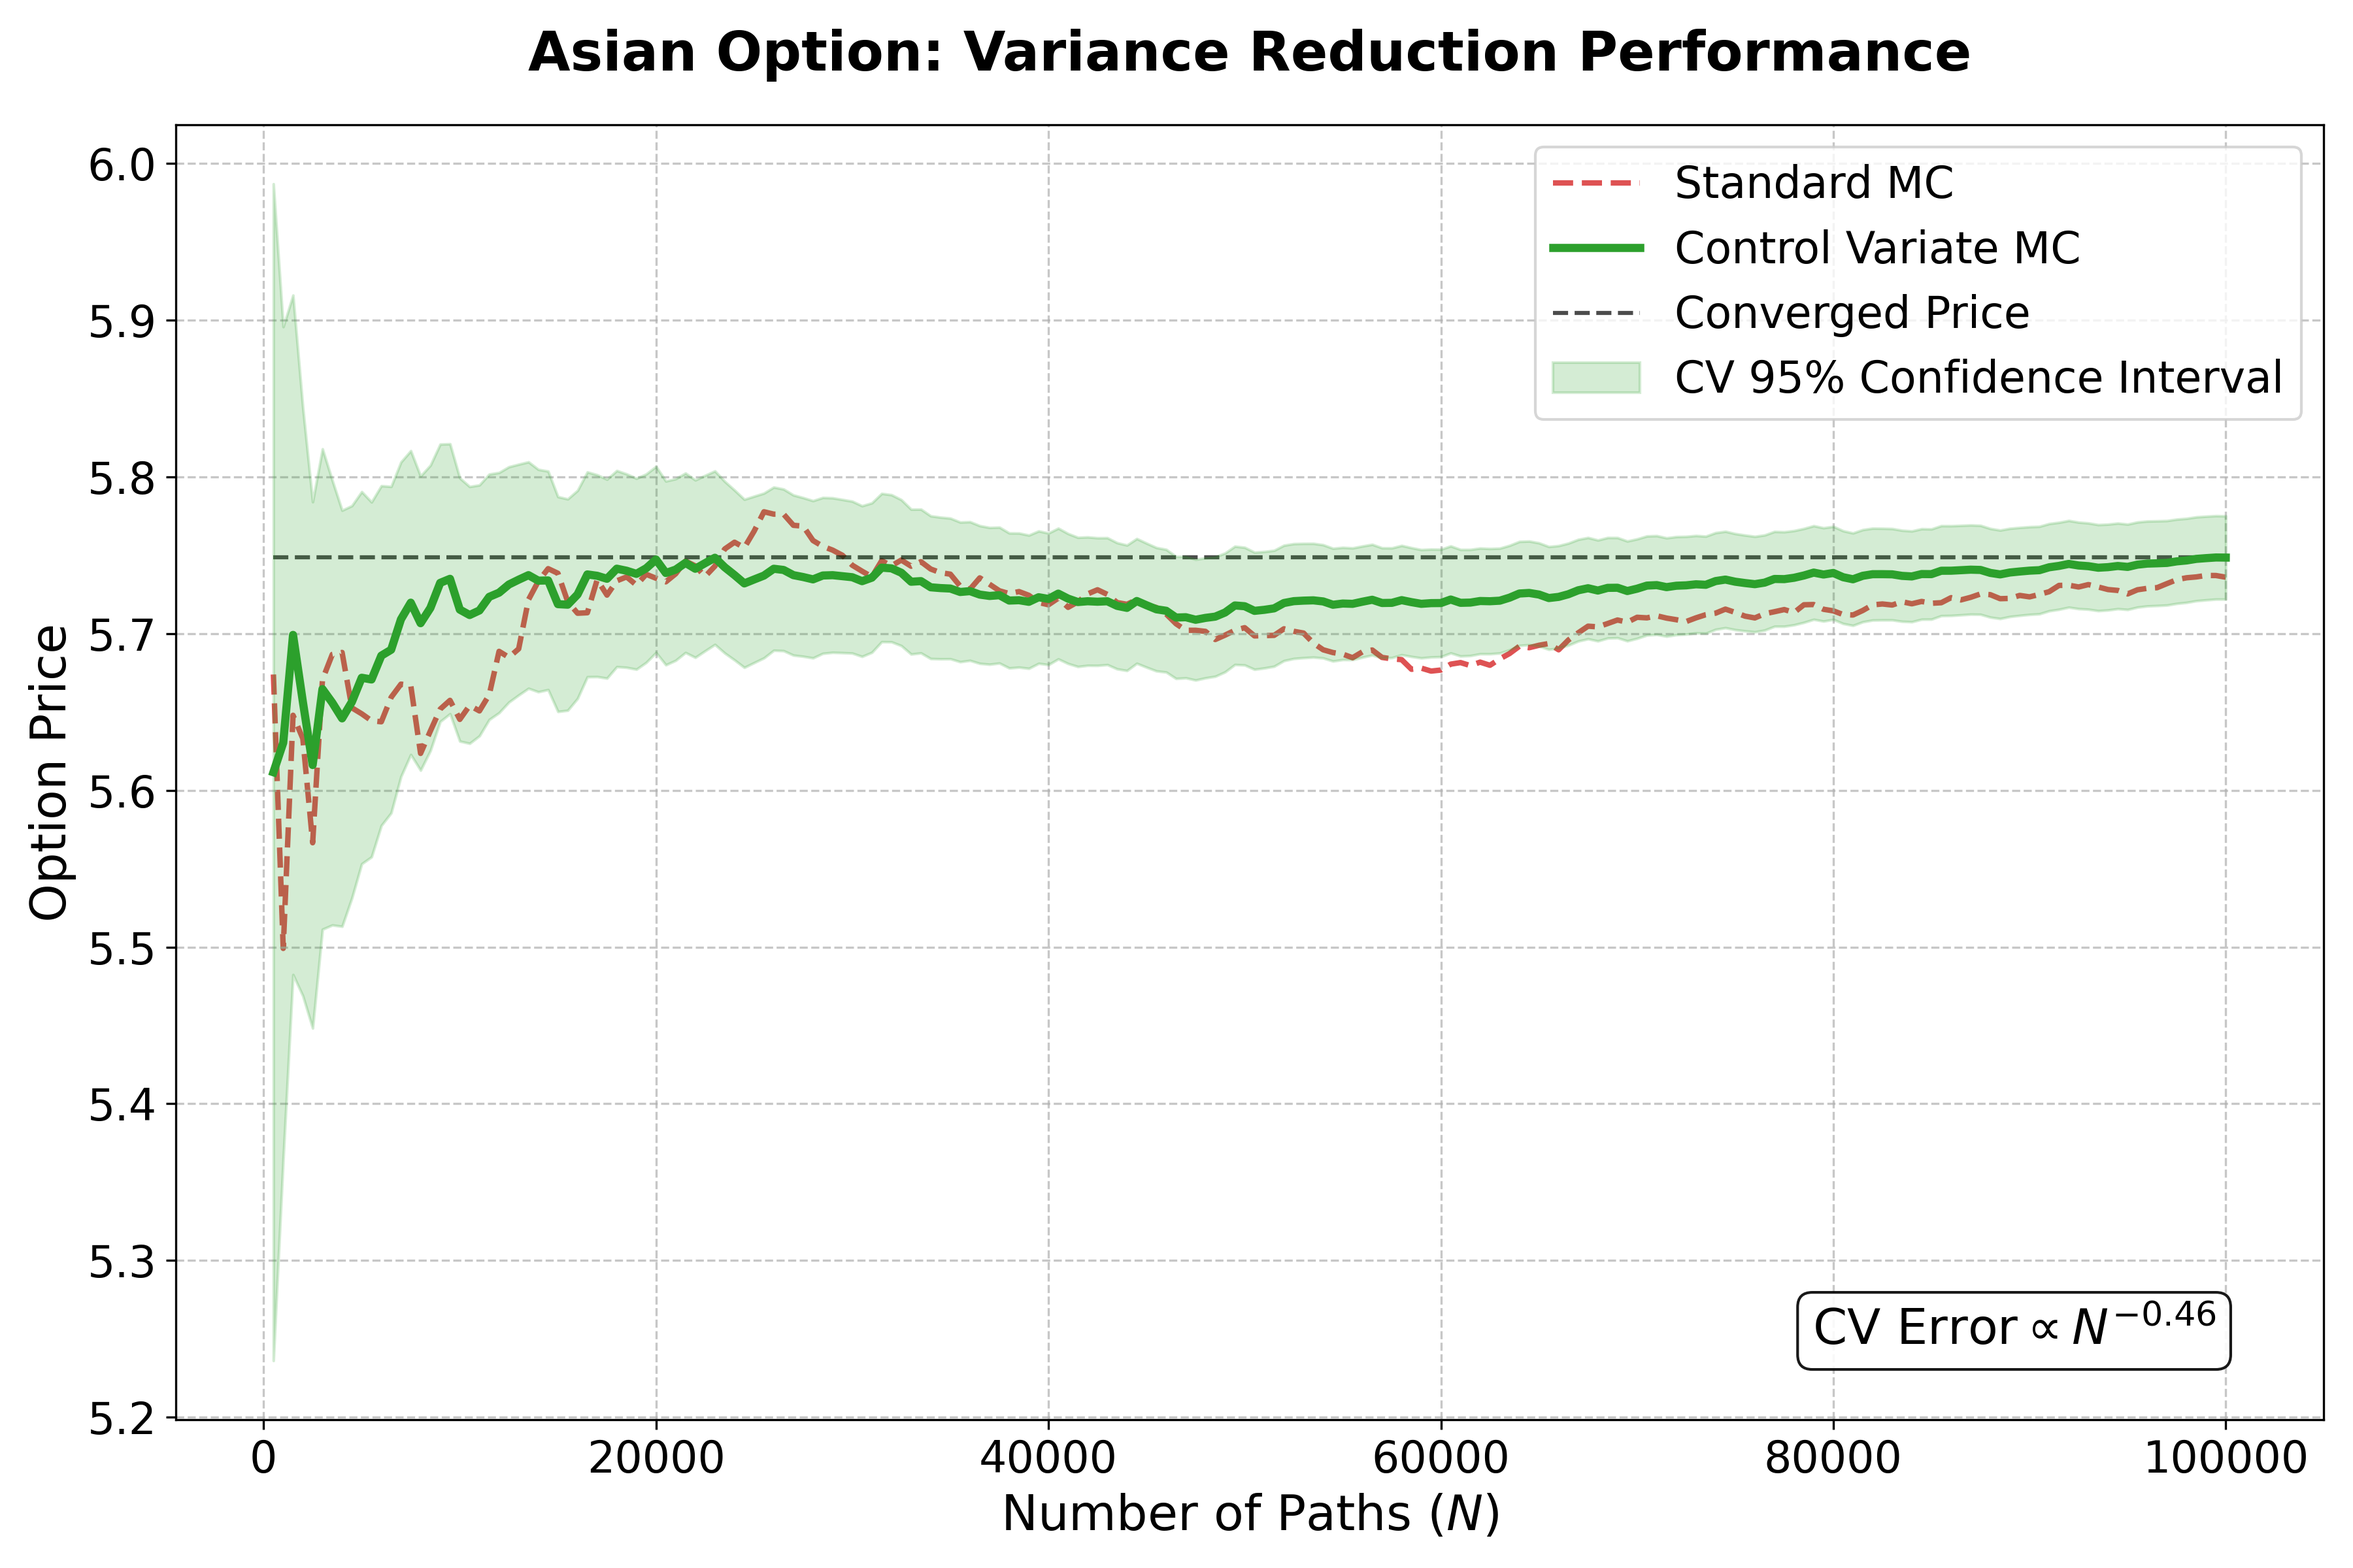
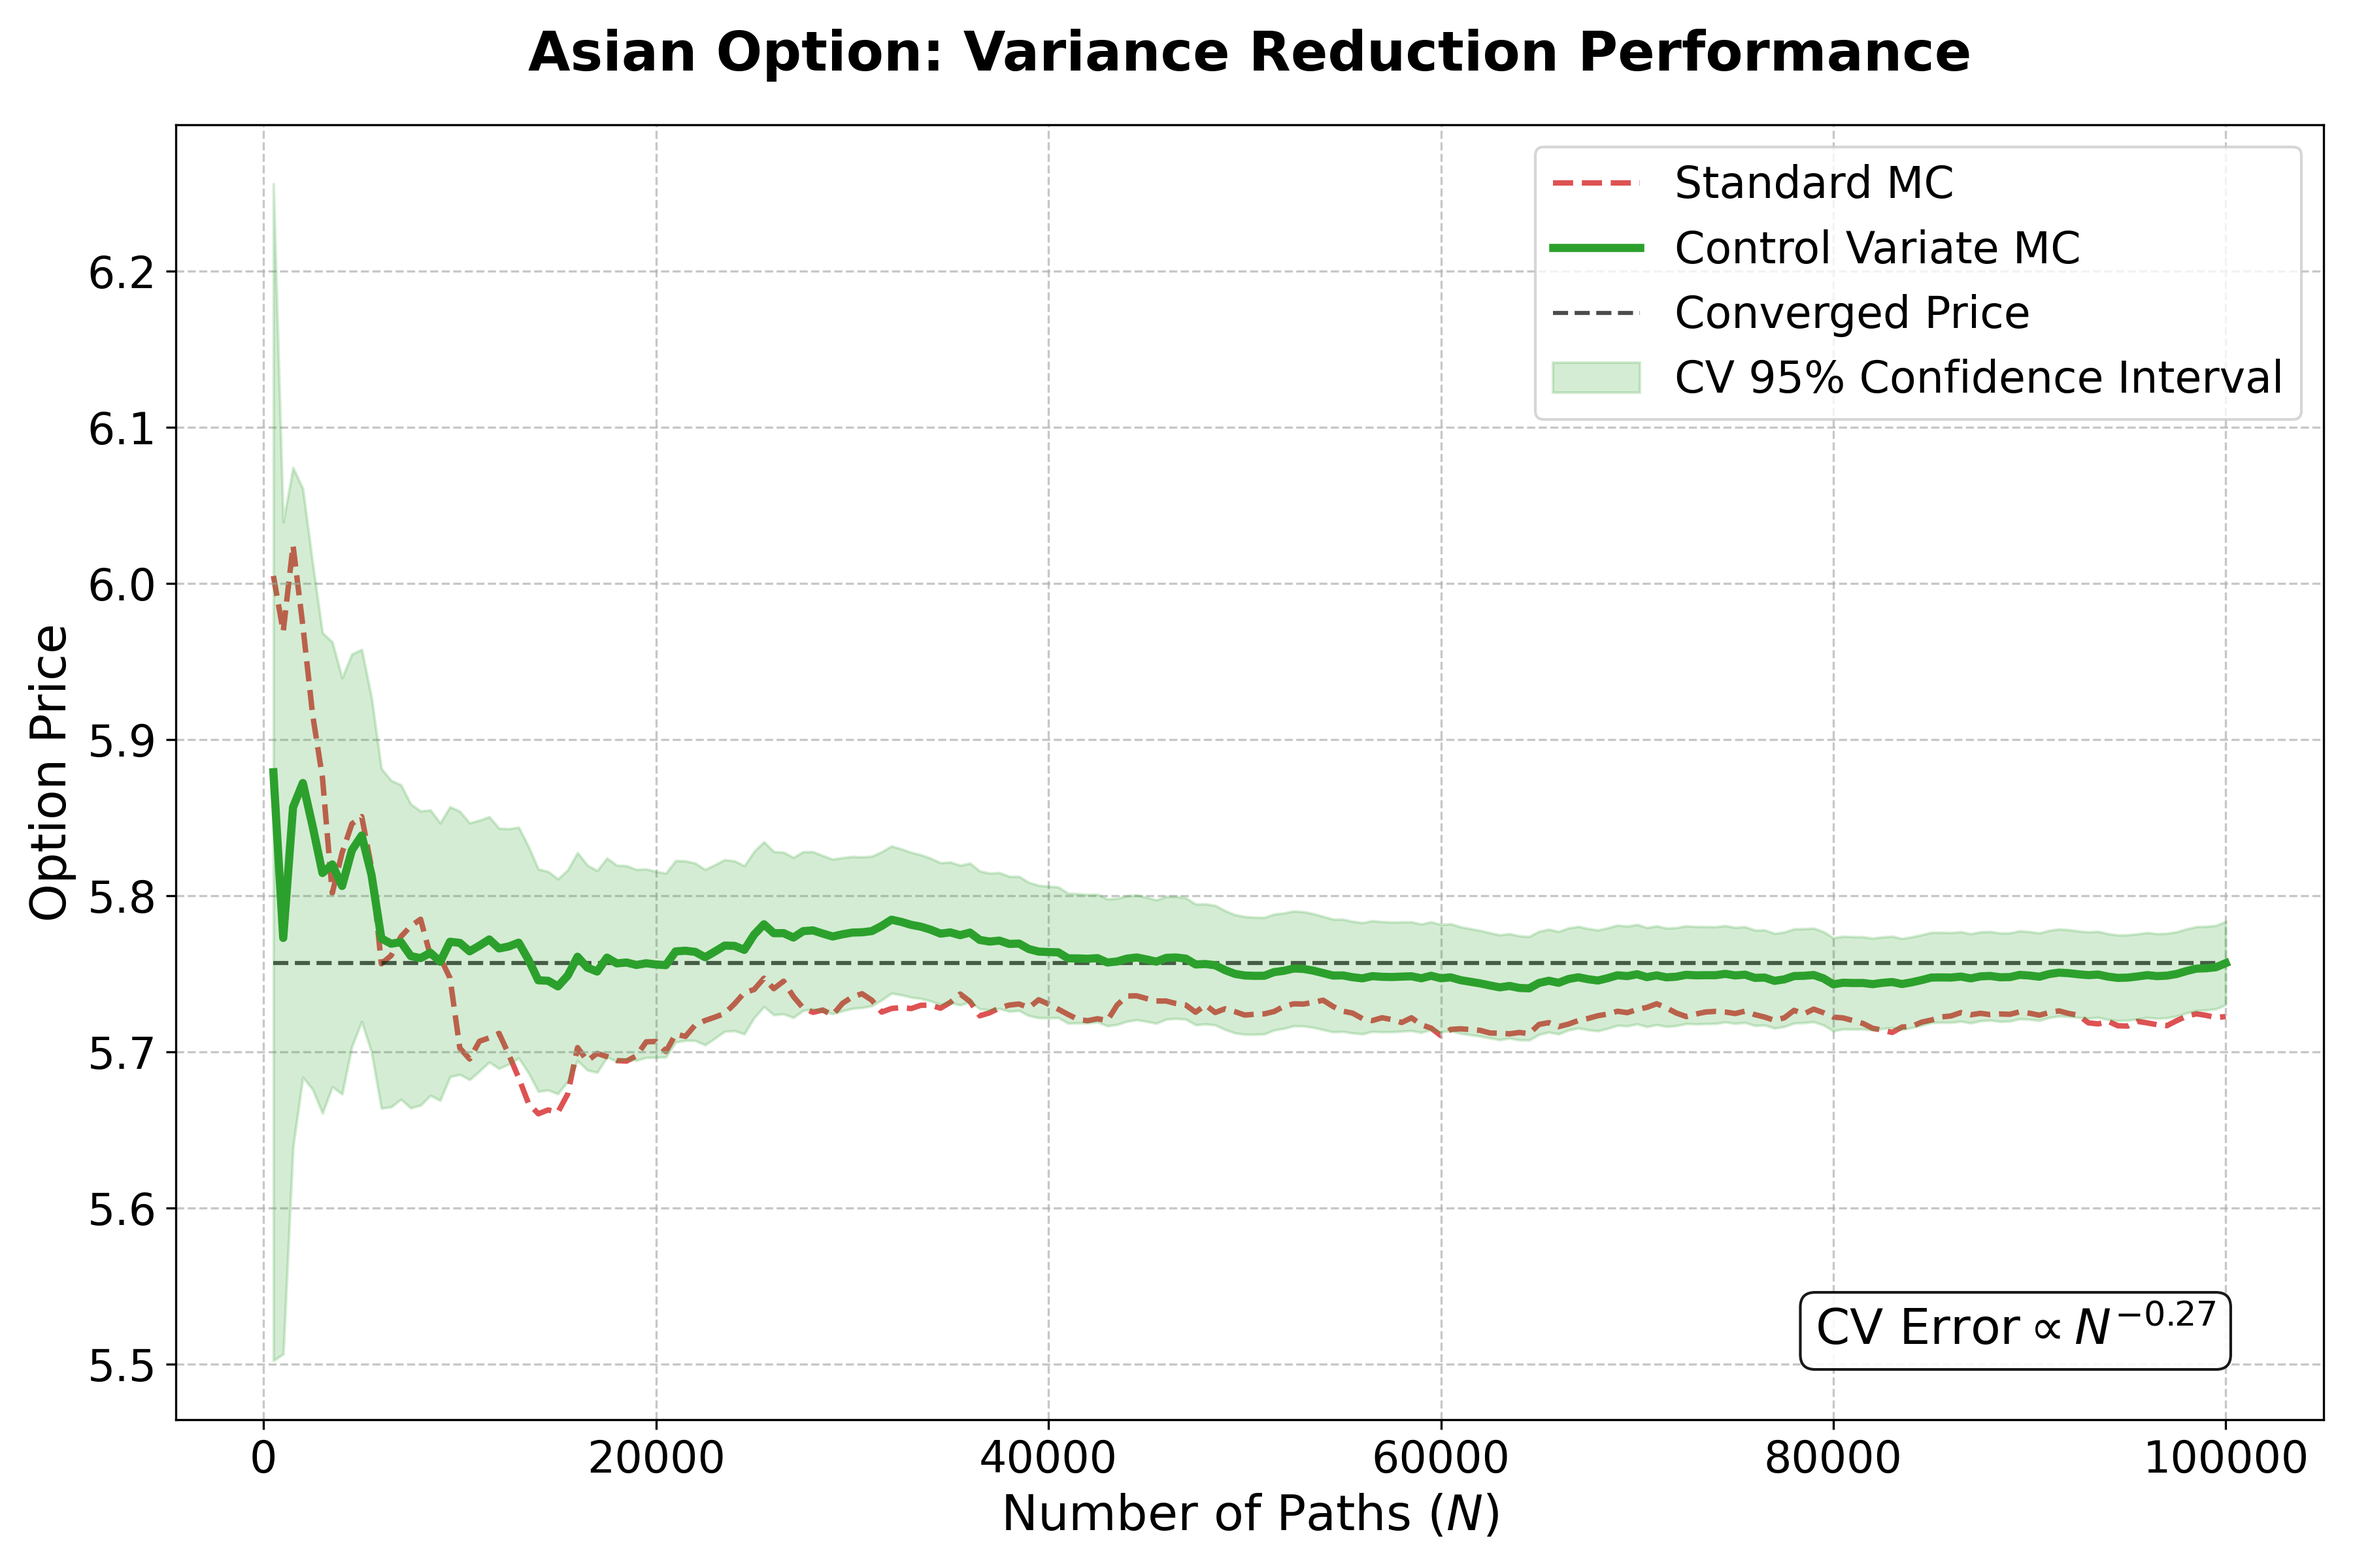
added heston volatility

diff --git a/main.py b/main.py
@@ -6,16 +6,13 @@ from models.monte_carlo import MonteCarloEngine
 from models.black_scholes import black_scholes
 from options.european import EuropeanOption
 from options.asian import AsianOption
-from models.variance_reduction import apply_control_variate
-from utils.statistics import summary_stats
 
 np.random.seed(42)
 
-def convergence_study_european(engine, option, paths=None, n_max=20000, step=500):
-    if paths is None:
-        paths = engine.generate_paths()
-    
+
+def convergence_study_european(engine, option, paths):
     n_total = paths.shape[0]
+    step = 500
     sizes = np.arange(step, n_total + 1, step, dtype=int)
 
     S_T = paths[:, -1]
@@ -28,11 +25,9 @@ def convergence_study_european(engine, option, paths=None, n_max=20000, step=500
     return sizes, estimates
 
 
-def convergence_study_asian(engine, option, paths=None, n_max=20000, step=500):
-    if paths is None:
-        paths = engine.generate_paths()
-    
+def convergence_study_asian(engine, option, paths):
     n_total = paths.shape[0]
+    step = 500
     sizes = np.arange(step, n_total + 1, step, dtype=int)
 
     payoff = option.payoff(paths)
@@ -44,6 +39,10 @@ def convergence_study_asian(engine, option, paths=None, n_max=20000, step=500):
     return sizes, estimates
 
 
+def run_engine(engine):
+    return engine.generate_paths()
+
+
 def main():
     os.makedirs("figures", exist_ok=True)
 
@@ -51,122 +50,94 @@ def main():
     K = 100
     T = 1.0
     r = 0.05
-    sigma = 0.2
 
     n_paths = 100000
     n_steps = 100
 
-    engine = MonteCarloEngine(S0, T, r, sigma, n_paths, n_steps)
+    gbm_engine = MonteCarloEngine(
+        S0, T, r,
+        sigma=0.2,
+        n_paths=n_paths,
+        n_steps=n_steps
+    )
+
+    heston_engine = MonteCarloEngine(
+        S0, T, r,
+        sigma=0.2,
+        n_paths=n_paths,
+        n_steps=n_steps,
+        model="heston",
+        model_params={
+            "v0": 0.04,
+            "kappa": 2.0,
+            "theta": 0.04,
+            "xi": 0.5,
+            "rho": -0.7
+        }
+    )
 
     european = EuropeanOption(K, "call")
     asian = AsianOption(K, "call")
 
-    paths = engine.generate_paths()
-    S_T = paths[:, -1]
+    gbm_paths = run_engine(gbm_engine)
+    heston_paths = run_engine(heston_engine)
 
-    bs_price = black_scholes(S0, K, T, r, sigma, "call")
+    gbm_S_T = gbm_paths[:, -1]
+    heston_S_T = heston_paths[:, -1]
 
-    euro_payoff = european.payoff(S_T)
-    euro_discounted = np.exp(-r * T) * euro_payoff
+    bs_price = black_scholes(S0, K, T, r, gbm_engine.sigma, "call")
 
-    asian_payoff = asian.payoff(paths)
-    asian_discounted = np.exp(-r * T) * asian_payoff
+    gbm_euro = np.exp(-r * T) * european.payoff(gbm_S_T)
+    heston_euro = np.exp(-r * T) * european.payoff(heston_S_T)
 
-    euro_price = np.mean(euro_discounted)
-    asian_price = np.mean(asian_discounted)
+    gbm_asian = np.exp(-r * T) * asian.payoff(gbm_paths)
+    heston_asian = np.exp(-r * T) * asian.payoff(heston_paths)
 
-    asian_cv_discounted = apply_control_variate(
-        payoff=asian_discounted,
-        control=euro_discounted,
-        control_exact=bs_price
-    )
+    gbm_euro_price = np.mean(gbm_euro)
+    heston_euro_price = np.mean(heston_euro)
 
-    euro_stats = summary_stats(euro_discounted, benchmark=bs_price)
-    asian_stats = summary_stats(asian_discounted)
-    asian_cv_stats = summary_stats(asian_cv_discounted)
+    gbm_asian_price = np.mean(gbm_asian)
+    heston_asian_price = np.mean(heston_asian)
 
-    print("\n--- European Option ---")
-    print("MC Price:", euro_price)
+    print("\n--- MODEL COMPARISON ---")
+    print("GBM European:", gbm_euro_price)
+    print("Heston European:", heston_euro_price)
+    print("GBM Asian:", gbm_asian_price)
+    print("Heston Asian:", heston_asian_price)
     print("Black-Scholes:", bs_price)
-    print("Stats:", euro_stats)
 
-    print("\n--- Asian Option ---")
-    print("MC Price:", asian_price)
-    print("Stats:", asian_stats)
+    sizes, gbm_conv = convergence_study_european(gbm_engine, european, gbm_paths)
+    _, heston_conv = convergence_study_european(heston_engine, european, heston_paths)
 
-    print("\n--- Asian (Control Variate) ---")
-    print("MC Price:", np.mean(asian_cv_discounted))
-    print("Stats:", asian_cv_stats)
-
-    # European Plot
-    sizes_e, euro_conv = convergence_study_european(engine, european, paths=paths, n_max=n_paths)
-    bs_line = np.full_like(sizes_e, bs_price, dtype=float)
-    
-    sigma_euro = np.std(euro_discounted)
-    stderr_e = sigma_euro / np.sqrt(sizes_e)
-    upper_e = euro_conv + 1.96 * stderr_e
-    lower_e = euro_conv - 1.96 * stderr_e
+    bs_line = np.full_like(sizes, bs_price, dtype=float)
 
     plt.figure(figsize=(12, 8))
-    plt.plot(sizes_e, euro_conv, label="MC Estimate", color='tab:blue', linewidth=2.5, zorder=3)
-    plt.plot(sizes_e, bs_line, "--", label="Black-Scholes", color='black', alpha=0.8, zorder=2)
-    plt.fill_between(sizes_e, lower_e, upper_e, color='tab:blue', alpha=0.2, label="95% Confidence Interval", zorder=1)
-    
-    errors_e = np.abs(euro_conv - bs_price)
-    valid_e = (errors_e > 1e-9) & (sizes_e > 1000)
-    rate_e = np.polyfit(np.log(sizes_e[valid_e]), np.log(errors_e[valid_e]), 1)
-    
-    plt.text(0.95, 0.05, f"$\mathrm{{Error}} \propto N^{{{rate_e[0]:.2f}}}$", 
-             transform=plt.gca().transAxes, fontsize=18, verticalalignment='bottom', 
-             horizontalalignment='right', bbox=dict(boxstyle='round', facecolor='white', alpha=0.9))
-    
-    plt.title("European Option: Monte Carlo Convergence Analysis", fontsize=20, fontweight='bold', pad=20)
-    plt.xlabel("Number of Paths ($N$)", fontsize=18)
-    plt.ylabel("Option Price", fontsize=18)
-    plt.xticks(fontsize=16)
-    plt.yticks(fontsize=16)
-    plt.legend(loc='upper right', fontsize=16, frameon=True)
-    plt.grid(True, linestyle='--', alpha=0.7)
+    plt.plot(sizes, gbm_conv, label="GBM MC", linewidth=2.5)
+    plt.plot(sizes, heston_conv, label="Heston MC", linewidth=2.5)
+    plt.plot(sizes, bs_line, "--", label="Black-Scholes", color="black", alpha=0.8)
+
+    plt.title("European Option: GBM vs Heston Convergence")
+    plt.xlabel("Number of Paths")
+    plt.ylabel("Option Price")
+    plt.legend()
+    plt.grid(True)
     plt.tight_layout()
-    plt.savefig("figures/european_convergence.png", dpi=300)
+    plt.savefig("figures/european_gbm_vs_heston.png", dpi=300)
 
-    # Asian Plot
-    sizes_a, asian_conv = convergence_study_asian(engine, asian, paths=paths, n_max=n_paths)
-    asian_cv_conv = np.cumsum(asian_cv_discounted) / np.arange(1, n_paths + 1)
-    asian_cv_estimates = asian_cv_conv[sizes_a - 1]
-    
-    final_asian_price = np.mean(asian_cv_discounted)
-    asian_line = np.full_like(sizes_a, final_asian_price, dtype=float)
-
-    sigma_asian_cv = np.std(asian_cv_discounted)
-    stderr_a = sigma_asian_cv / np.sqrt(sizes_a)
-    upper_a = asian_cv_estimates + 1.96 * stderr_a
-    lower_a = asian_cv_estimates - 1.96 * stderr_a
+    sizes_a, gbm_asian_conv = convergence_study_asian(gbm_engine, asian, gbm_paths)
+    _, heston_asian_conv = convergence_study_asian(heston_engine, asian, heston_paths)
 
     plt.figure(figsize=(12, 8))
-    # Redder color and dashed line for high contrast against the green CV line
-    plt.plot(sizes_a, asian_conv, label="Standard MC", color='#d62728', alpha=0.8, linewidth=2, linestyle='--', zorder=1)
-    plt.plot(sizes_a, asian_cv_estimates, label="Control Variate MC", color='#2ca02c', linewidth=3, zorder=3)
-    plt.plot(sizes_a, asian_line, "--", label="Converged Price", color='black', alpha=0.7, zorder=2)
-    plt.fill_between(sizes_a, lower_a, upper_a, color='#2ca02c', alpha=0.2, label="CV 95% Confidence Interval", zorder=2)
+    plt.plot(sizes_a, gbm_asian_conv, label="GBM MC", linewidth=2)
+    plt.plot(sizes_a, heston_asian_conv, label="Heston MC", linewidth=2)
 
-    errors_a = np.abs(asian_cv_estimates - final_asian_price)
-    valid_a = (errors_a > 1e-9) & (sizes_a > 1000)
-    rate_a = np.polyfit(np.log(sizes_a[valid_a]), np.log(errors_a[valid_a]), 1)
-    
-    plt.text(0.95, 0.05, f"$\mathrm{{CV\ Error}} \propto N^{{{rate_a[0]:.2f}}}$", 
-             transform=plt.gca().transAxes, fontsize=18, verticalalignment='bottom', 
-             horizontalalignment='right', bbox=dict(boxstyle='round', facecolor='white', alpha=0.9))
-
-    plt.title("Asian Option: Variance Reduction Performance", fontsize=20, fontweight='bold', pad=20)
-    plt.xlabel("Number of Paths ($N$)", fontsize=18)
-    plt.ylabel("Option Price", fontsize=18)
-    plt.xticks(fontsize=16)
-    plt.yticks(fontsize=16)
-    plt.legend(loc='upper right', fontsize=16, frameon=True)
-    plt.grid(True, linestyle='--', alpha=0.7)
+    plt.title("Asian Option: GBM vs Heston Convergence")
+    plt.xlabel("Number of Paths")
+    plt.ylabel("Option Price")
+    plt.legend()
+    plt.grid(True)
     plt.tight_layout()
-    plt.savefig("figures/asian_convergence.png", dpi=300)
+    plt.savefig("figures/asian_gbm_vs_heston.png", dpi=300)
 
 
 if __name__ == "__main__":

diff --git a/models/monte_carlo.py b/models/monte_carlo.py
@@ -2,7 +2,7 @@ import numpy as np
 
 
 class MonteCarloEngine:
-    def __init__(self, S0, T, r, sigma, n_paths=10000, n_steps=100):
+    def __init__(self, S0, T, r, sigma, n_paths=10000, n_steps=100, model="gbm", model_params=None):
         self.S0 = S0
         self.T = T
         self.r = r
@@ -10,20 +10,65 @@ class MonteCarloEngine:
         self.n_paths = n_paths
         self.n_steps = n_steps
         self.dt = T / n_steps
+        self.model = model
+        self.model_params = model_params or {}
 
     def generate_paths(self):
-        paths = np.zeros((self.n_paths, self.n_steps + 1))
-        paths[:, 0] = self.S0
+        if self.model == "gbm":
+            paths = np.zeros((self.n_paths, self.n_steps + 1))
+            paths[:, 0] = self.S0
 
-        for t in range(1, self.n_steps + 1): # vectorise to improve speed
-            Z = np.random.standard_normal(self.n_paths)
+            Z = np.random.standard_normal((self.n_paths, self.n_steps))
 
-            paths[:, t] = paths[:, t - 1] * np.exp(
-                (self.r - 0.5 * self.sigma**2) * self.dt +
-                self.sigma * np.sqrt(self.dt) * Z
-            )
+            drift = (self.r - 0.5 * self.sigma**2) * self.dt
+            diffusion = self.sigma * np.sqrt(self.dt) * Z
 
-        return paths
+            log_returns = drift + diffusion
+            paths[:, 1:] = self.S0 * np.exp(np.cumsum(log_returns, axis=1))
+
+            return paths
+
+        elif self.model == "heston":
+            S0 = self.S0
+            r = self.r
+            dt = self.dt
+            n_paths = self.n_paths
+            n_steps = self.n_steps
+
+            v0 = self.model_params["v0"]
+            kappa = self.model_params["kappa"]
+            theta = self.model_params["theta"]
+            xi = self.model_params["xi"]
+            rho = self.model_params["rho"]
+
+            S = np.zeros((n_paths, n_steps + 1))
+            v = np.zeros((n_paths, n_steps + 1))
+
+            S[:, 0] = S0
+            v[:, 0] = v0
+
+            Z1 = np.random.standard_normal((n_paths, n_steps))
+            Z2 = np.random.standard_normal((n_paths, n_steps))
+
+            W2 = rho * Z1 + np.sqrt(1 - rho**2) * Z2
+
+            for t in range(n_steps):
+                v[:, t] = np.maximum(v[:, t], 0)
+
+                S[:, t + 1] = S[:, t] * np.exp(
+                    (r - 0.5 * v[:, t]) * dt + np.sqrt(v[:, t] * dt) * Z1[:, t]
+                )
+
+                v[:, t + 1] = np.abs(
+                    v[:, t]
+                    + kappa * (theta - v[:, t]) * dt
+                    + xi * np.sqrt(v[:, t] * dt) * W2[:, t]
+                )
+
+            return S
+
+        else:
+            raise ValueError("Unknown model type")
 
     def price(self, payoff_fn):
         paths = self.generate_paths()
